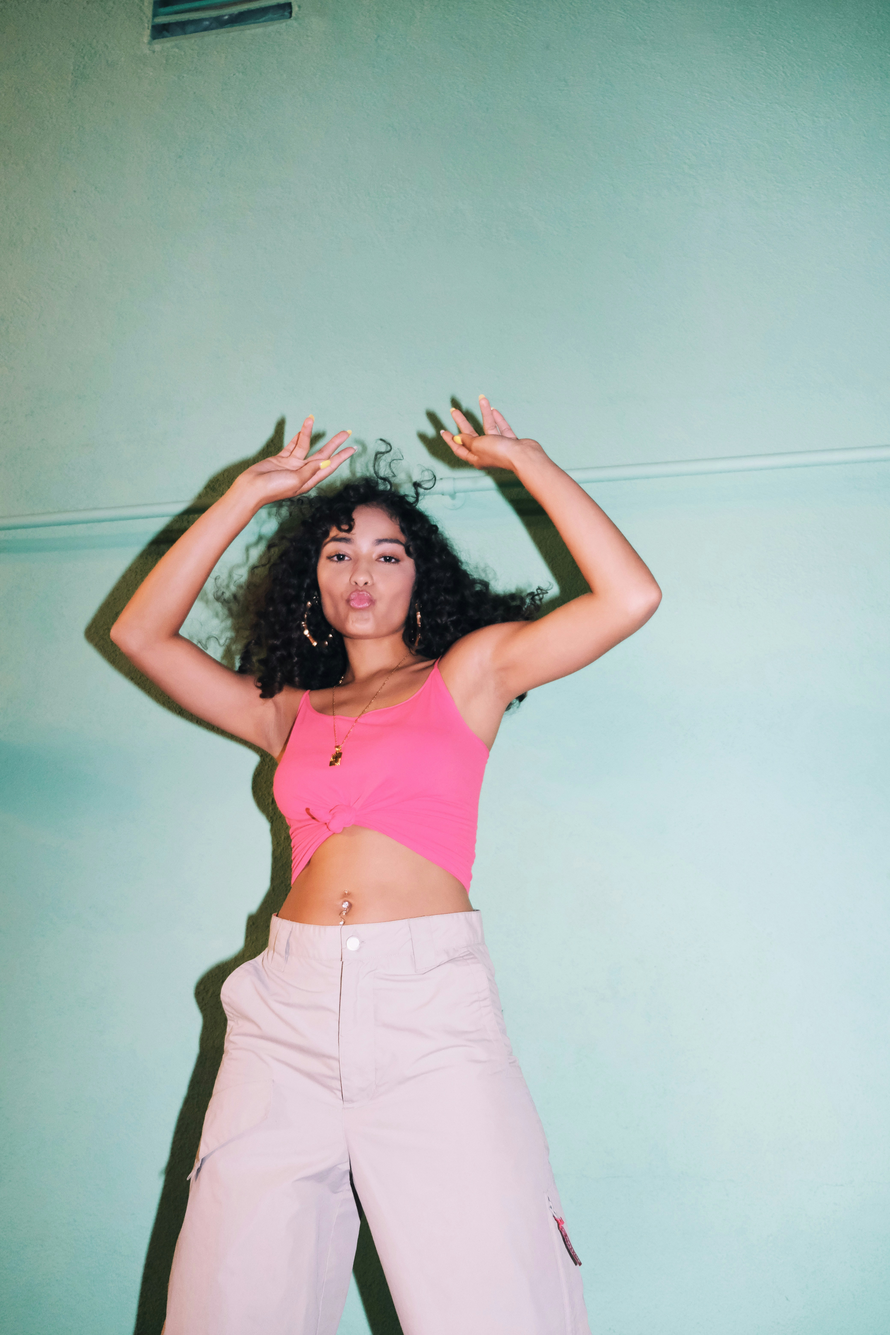
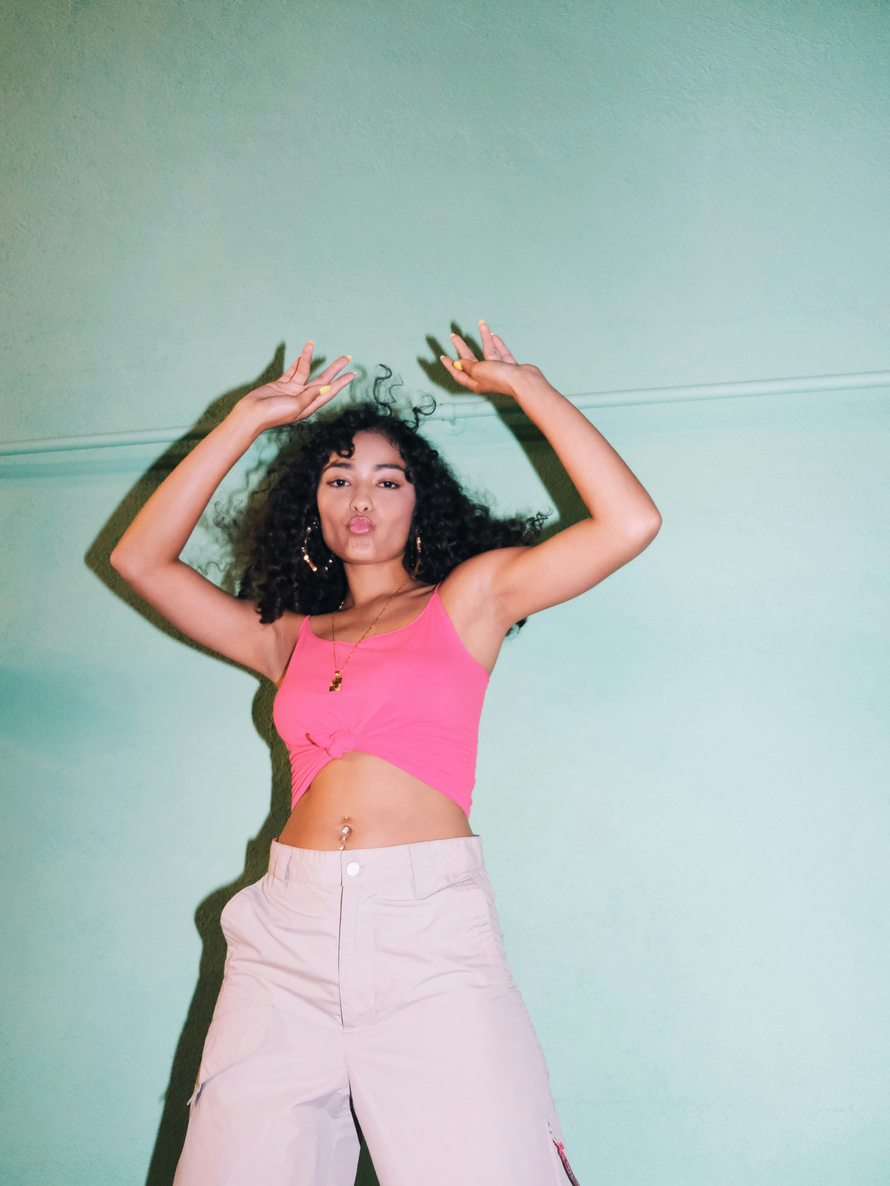
worked on responsivness on detailpage and worked on signals and compute to let the values update when needed or changed. altso added scroll function in app.config so make it nice to navigate the pages.

diff --git a/client/src/components/product-detail/product-detail.html b/client/src/components/product-detail/product-detail.html
@@ -1,14 +1,17 @@
-<div class="w-100 gap-4  flex flex-col items-center border-box p-3">
-  <img [src]="product().imageUrl" class="w-100" alt="">
-  <div class=" flex flex-col gap-2">
-    <p class="text-3xl font-semibold">{{ product().name }}</p>
-    <p class="text-gray-400">{{ product().brand }}</p>
-    <p>{{ product().description }}</p>
+<div class="w-100 gap-4  flex flex-col items-center border-box p-3 md:flex-row md:justify-start md:items-start md:w-full">
+  <img [src]="product().imageUrl" class="w-100 lg:w-150" alt="">
+  <div class="md:flex md:flex-col md:gap-15">
+  <div class=" flex flex-col gap-3  md:gap-4 ">
+    <p class="text-3xl font-semibold lg:text-7xl">{{ product().name }}</p>
+    <p class="text-gray-400 lg:text-2xl ">{{ product().brand }}</p>
+    <p class="max-w-100 lg:text-2xl">{{ product().description }}</p>
+    <div class="felx flex-col items-start w-full ">
+    <p class="lg:text-2xl">{{ product().price }}$</p>
+    </div>
   </div>
-  <div class="felx flex-col items-start w-full">
-    <p>{{ product().price }} $</p>
-    
+  
+    <button class="bg-amber-100 p-2 w-50 lg:w-90 border border-black rounded-2xl" >Add to cart</button>
   </div>
-  <button class="bg-amber-100 p-2 w-50 border border-black rounded-2xl" >Add to cart</button>
+  
 </div>
 

diff --git a/client/src/pages/detail-page/detail-page.ts b/client/src/pages/detail-page/detail-page.ts
@@ -1,20 +1,23 @@
-import { Component, inject } from '@angular/core';
+import { Component, computed, inject, input } from '@angular/core';
 import { ActivatedRoute } from '@angular/router';
 import { ProductsService } from '../../services/products-service';
 import { ProductDetail } from "../../components/product-detail/product-detail";
+import { SimilarProducts } from "../../components/similar-products/similar-products";
 
 @Component({
   selector: 'app-detail-page',
-  imports: [ProductDetail],
+  imports: [ProductDetail, SimilarProducts],
   templateUrl: './detail-page.html',
   styleUrl: './detail-page.css',
 })
 export class DetailPage {
-  private route = inject(ActivatedRoute);
+  
   private productsService = inject(ProductsService);
 
-  slug = this.route.snapshot.paramMap.get('slug') ?? '';
-  product = this.productsService.getBySlug(this.slug);
+  
+
+  slug = input.required<string>();
+  product = computed(() => this.productsService.getBySlug(this.slug()))
   
   
   

diff --git a/client/src/layout/main-layout/main-layout.html b/client/src/layout/main-layout/main-layout.html
@@ -1,4 +1,4 @@
-<nav class=" flex flex-col mb-10 p-4">
+<nav class="flex flex-col mb-10 p-4">
   <div class="flex flex-col border-box gap-3 mb-1 md:flex-row md:items-end md:mb-5">
   <div class="border flex align-middle justify-center rounded" routerLink="/">
     <img class="max-w-full border-box md:max-w-70" src="assets/logo.png" alt="" />
@@ -47,7 +47,7 @@
   </ul>
 </nav>
 
-<main class="md:flex md:flex-col md:items-center md:mb-30"><router-outlet /></main>
+<main class="flex flex-col items-center min-w-0 border-box md:mb-30"><router-outlet /></main>
 
 <footer class="mt-8 border-t border-slate-200 bg-slate-50 text-slate-700">
   <div class="grid grid-cols-2 md:grid-cols-4 gap-6 max-w-5xl mx-auto px-6 py-8">

diff --git a/client/src/components/similar-products/similar-products.html b/client/src/components/similar-products/similar-products.html
@@ -1,0 +1,16 @@
+
+<div class="flex gap-2 w-full max-w-300 min-w-0 mx-auto border-box overflow-x-scroll snap-x snap-mandatory pl-0.5 m-0 py-10">
+  @for (product of products(); track product.slug) {
+    <div class="flex flex-col w-[calc((100%-1rem)/3)] shrink-0 snap-start p-2 border border-box bg-amber-50" >
+      <img [routerLink]="'/product/' + product.slug" class=" aspect-3/4 object-cover border-box" [src]="product.imageUrl" alt="" />
+      <div class="flex ">
+        <div>
+          <p>{{ product.name }}</p>
+          <p>{{ product.brand }}</p>
+        </div>
+
+        <p class="ml-auto">{{ product.price }}$</p>
+      </div>
+    </div>
+  }
+</div>

diff --git a/client/src/components/similar-products/similar-products.spec.ts b/client/src/components/similar-products/similar-products.spec.ts
@@ -1,0 +1,22 @@
+import { ComponentFixture, TestBed } from '@angular/core/testing';
+
+import { SimilarProducts } from './similar-products';
+
+describe('SimilarProducts', () => {
+  let component: SimilarProducts;
+  let fixture: ComponentFixture<SimilarProducts>;
+
+  beforeEach(async () => {
+    await TestBed.configureTestingModule({
+      imports: [SimilarProducts],
+    }).compileComponents();
+
+    fixture = TestBed.createComponent(SimilarProducts);
+    component = fixture.componentInstance;
+    await fixture.whenStable();
+  });
+
+  it('should create', () => {
+    expect(component).toBeTruthy();
+  });
+});

diff --git a/client/src/components/similar-products/similar-products.ts b/client/src/components/similar-products/similar-products.ts
@@ -1,0 +1,19 @@
+import { Component, computed, inject, input, OnInit } from '@angular/core';
+import { Product, ProductsService } from '../../services/products-service';
+import { RouterLink } from "@angular/router";
+
+@Component({
+  selector: 'app-similar-products',
+  imports: [RouterLink],
+  templateUrl: './similar-products.html',
+  styleUrl: './similar-products.css',
+})
+export class SimilarProducts {
+  slug = input.required<string>();
+  private productsService = inject(ProductsService);
+
+  
+
+  products = computed(() => this.productsService.getRandom(6, this.slug()));
+  
+}

diff --git a/client/src/app/app.config.ts b/client/src/app/app.config.ts
@@ -1,11 +1,11 @@
 import { ApplicationConfig, provideBrowserGlobalErrorListeners } from '@angular/core';
-import { provideRouter } from '@angular/router';
+import { provideRouter, withComponentInputBinding, withInMemoryScrolling } from '@angular/router';
 
 import { routes } from './app.routes';
 
 export const appConfig: ApplicationConfig = {
   providers: [
     provideBrowserGlobalErrorListeners(),
-    provideRouter(routes)
+    provideRouter(routes, withComponentInputBinding(), withInMemoryScrolling({ scrollPositionRestoration: 'enabled' })),
   ]
 };

diff --git a/client/src/services/products-service.ts b/client/src/services/products-service.ts
@@ -103,9 +103,9 @@ export class ProductsService {
     return this.products().find((p: { slug: string }) => p.slug === slug);
   }
 
-  getRandom() {
-    const all = this.products();
-    const randomIndex = Math.floor(Math.random() * all.length);
-    return all[randomIndex];
+  getRandom(count: number, excludeSlug: string): Product[] {
+    const others = this.products().filter((p) => p.slug !== excludeSlug);
+    const shuffled = [...others].sort(() => Math.random() - 0.5);
+    return shuffled.slice(0, count);
   }
 }

diff --git a/client/src/pages/detail-page/detail-page.html b/client/src/pages/detail-page/detail-page.html
@@ -1,9 +1,13 @@
 
 
-<div class="flex flex-col w-full border-box items-center">
-  @if (product) {
-    <app-product-detail [product]="product" />
+<div class="flex flex-col w-full border-box items-center lg:items-start">
+  @if (product(); as p) {
+    <app-product-detail [product]="p" />
   } @else {
     <p>Product not found.</p>
   }
+</div>
+
+<div class="hidden md:flex md:flex-col md:items-center border-box md:w-full md:min-w-0 m-0 p-0 lg:w-full lg:flex">
+  <app-similar-products [slug]="slug()"/>
 </div>

diff --git a/client/src/components/product-detail/product-detail.ts b/client/src/components/product-detail/product-detail.ts
@@ -10,4 +10,5 @@ import { Product } from '../../services/products-service';
 export class ProductDetail {
   
   product = input.required<Product>();
+  
 }

diff --git a/client/src/app/app.html b/client/src/app/app.html
@@ -1,2 +1,1 @@
-
 <router-outlet />
